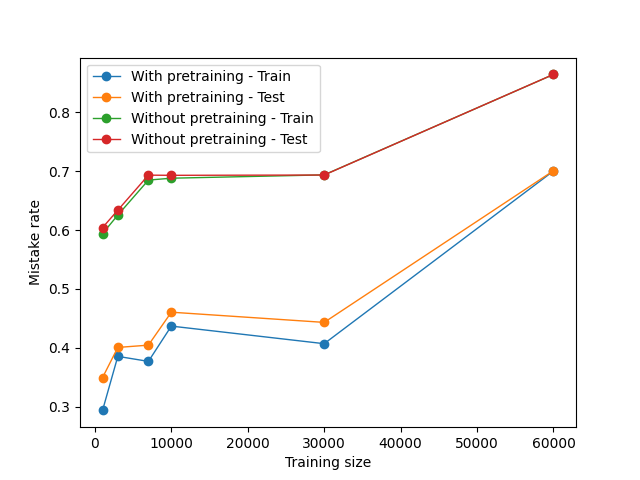
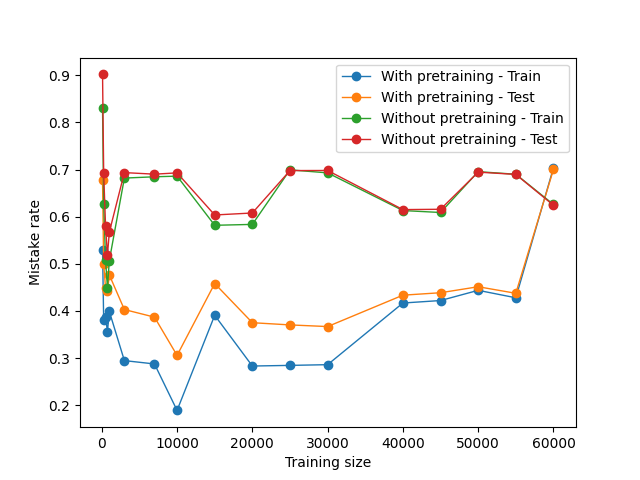
latest version of the code

diff --git a/Projet/principal_DNN_MNIST_Fig1.py b/Projet/principal_DNN_MNIST_Fig1.py
@@ -20,14 +20,15 @@ def main():
     # Load the MNIST dataset for the specified digit classes
     nums = [0, 1, 2, 3, 4, 5, 6, 7, 8, 9]
     X_train, X_test, Y_train, Y_test = lire_MNIST(nums)
+    X_train, _, Y_train, _ = train_test_split(X_train, Y_train, train_size=48000, random_state=42)
     
     # Define the parameters for the DNN and the training process
     p = X_train.shape[1]
-    q = 200
+    q = 200 
     learning_rate = 0.075
     batch_size = 125
     nb_iter = 100
-    n_epochs = 51
+    n_epochs = 201
 
     # Define the number of hidden layers
     num_hidden_layers = range(0, 6)

diff --git a/Projet/principal_DNN_MNIST_Fig2.py b/Projet/principal_DNN_MNIST_Fig2.py
@@ -23,13 +23,14 @@ def main():
     # Load the MNIST dataset for the specified digit classes
     nums = [0, 1, 2, 3, 4, 5, 6, 7, 8, 9]
     X_train, X_test, Y_train, Y_test = lire_MNIST(nums)
+    X_train, _, Y_train, _ = train_test_split(X_train, Y_train, train_size=48000, random_state=42)
 
     # Define the parameters for the DNN and the training process
     p = X_train.shape[1]
     learning_rate = 0.075
     batch_size = 125
     nb_iter = 100
-    n_epochs = 51
+    n_epochs = 201
 
     # Define the number of neurons for hidden layers
     neurons_range = [100, 300, 500, 700, 900]

diff --git a/Projet/principal_DNN_MNIST_Fig3.py b/Projet/principal_DNN_MNIST_Fig3.py
@@ -30,11 +30,11 @@ def main():
     learning_rate = 0.075
     batch_size = 125
     nb_iter = 100
-    n_epochs = 51
+    n_epochs = 201
     layers = [p, q, q, len(nums)]
 
     # Define the number of training datas to train the DNN
-    data_train_range = [1000, 3000, 7000, 10000, 30000, 60000]
+    data_train_range = [100, 250, 500, 750, 1000, 3000, 7000, 10000, 15000, 20000, 25000, 30000, 40000, 45000, 50000, 55000, 60000]
 
     # Initialize lists to store mistake_rates
     pretrained_train_mistake_rates = []
